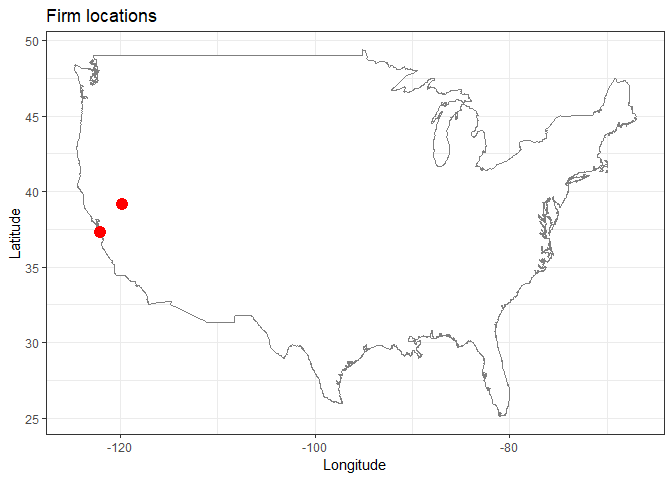
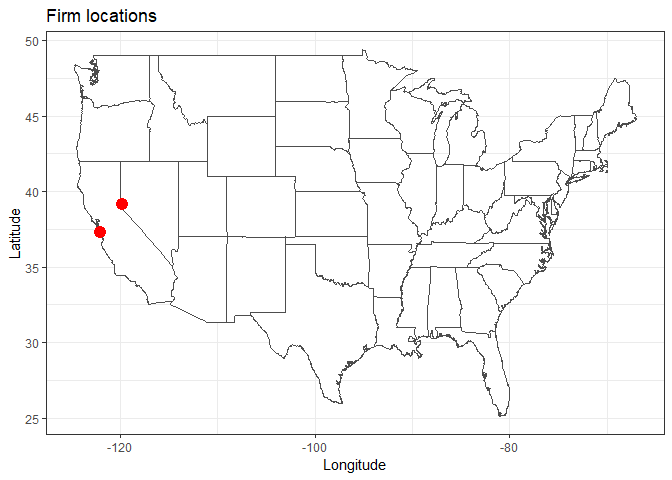
add state borders in plots

diff --git a/programming/data-mining/rvest/sec-location.md b/programming/data-mining/rvest/sec-location.md
@@ -59,14 +59,23 @@ Plotting locations
 ------------------
 
 ``` r
-ggplot(location.df, aes(x=lon, y=lat)) + 
-  borders("usa", colour="gray50", fill="white") +
-  geom_point(color="red", size=4) +
-  labs(x = "Longitude", y = "Latitude", title = "Firm locations") +
-  theme_bw()
+usa.map <- map_data("state") # load USA map from ggmap
 ```
 
     ## Warning: package 'maps' was built under R version 3.5.1
+
+``` r
+ggplot(location.df, aes(x=lon, y=lat)) + 
+  borders("usa", colour="gray50", fill="white") + 
+  geom_map(data=usa.map, map=usa.map,
+          aes(long, lat, map_id=region),
+          color="gray30", fill=NA) +
+  geom_point(color="red", size=4) + 
+  labs(x = "Longitude", y = "Latitude", title = "Firm locations") +
+  theme_bw() 
+```
+
+    ## Warning: Ignoring unknown aesthetics: x, y
 
 ![](sec-location_files/figure-markdown_github/plot-locations-1.png)
 
